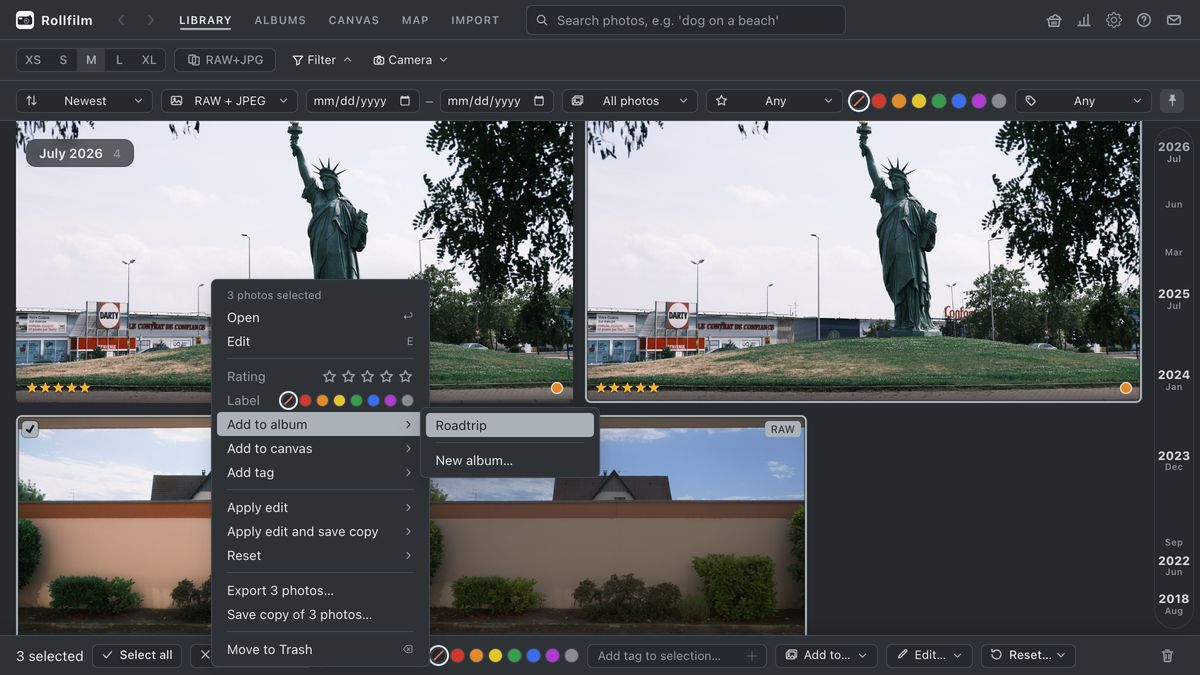
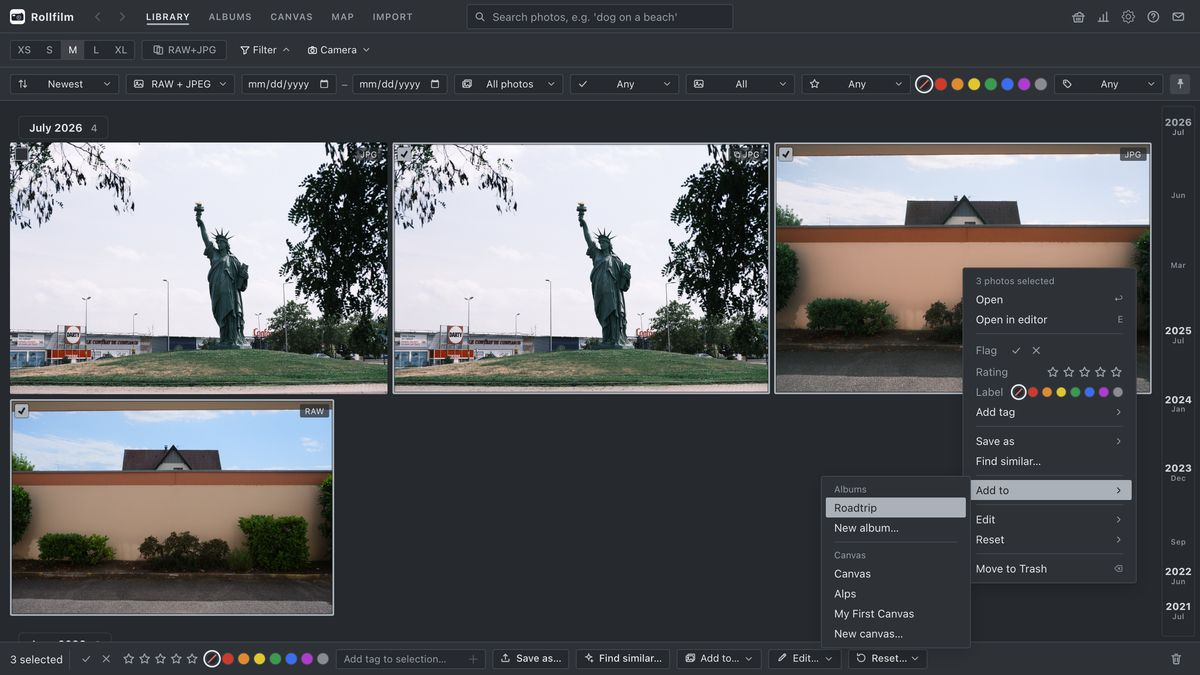
docs: screenshots retaken on 0.2.4, four new frames in the README table (rolls, find similar, export, auto-arrange)

diff --git a/README.md b/README.md
@@ -73,11 +73,13 @@ More on [rollfilm.org](https://rollfilm.org/#gallery).
 | <img src="docs/screenshots/edit-nr.jpg" alt="Noise reduction at 200 percent" width="420"><br>**Noise reduction**: ISO 12800 at 200%, original left, cleaned right | <img src="docs/screenshots/edit-wb.jpg" alt="White balance controls" width="420"><br>**White balance**: Kelvin, tint and the usual lights one click away |
 | <img src="docs/screenshots/edit-presets.jpg" alt="Preset list in the editor" width="420"><br>**Presets**: save a look once, apply it with one click | <img src="docs/screenshots/canvas.jpg" alt="Canvas editor with photos laid out on a page" width="420"><br>**Canvas**: lay photos out on a page, print or export it |
 | <img src="docs/screenshots/canvas-edit.jpg" alt="Canvas with the photo editor docked beside the page" width="420"><br>**Canvas edit**: edit a photo right on the page, the original stays untouched | <img src="docs/screenshots/albums-wide.jpg" alt="Albums page" width="420"><br>**Albums**: countries, years and months, plus your own |
-| <img src="docs/screenshots/stats.jpg" alt="Library statistics" width="420"><br>**Statistics**: the gear you actually use | |
+| <img src="docs/screenshots/stats.jpg" alt="Library statistics" width="420"><br>**Statistics**: the gear you actually use | <img src="docs/screenshots/rolls.jpg" alt="A roll opened as an album" width="420"><br>**Rolls**: every import kept as one album per card |
+| <img src="docs/screenshots/find-similar.jpg" alt="Find similar dialog with a Toward phrase" width="420"><br>**Find similar**: start from one photo, steer with a phrase, set how alike | <img src="docs/screenshots/export.jpg" alt="Export dialog" width="420"><br>**Export**: JPEG, PNG or TIFF, sized, sharpened, watermarked, as a preset |
+| <img src="docs/screenshots/canvas-arrange.jpg" alt="Auto-arrange dialog over a canvas" width="420"><br>**Auto-arrange**: photos that go together share a page, each page set for its photos | |
 
 Three quiet skins, each in light and dark, with a switch that can follow the system:
 
-<img src="docs/screenshots/themes.jpg" alt="Appearance dialog with the Stone, Pebble and Paper skins" width="850">
+<img src="docs/screenshots/themes.jpg" alt="Appearance dialog with the eight skins, each in light and dark" width="850">
 
 ## Features
 
